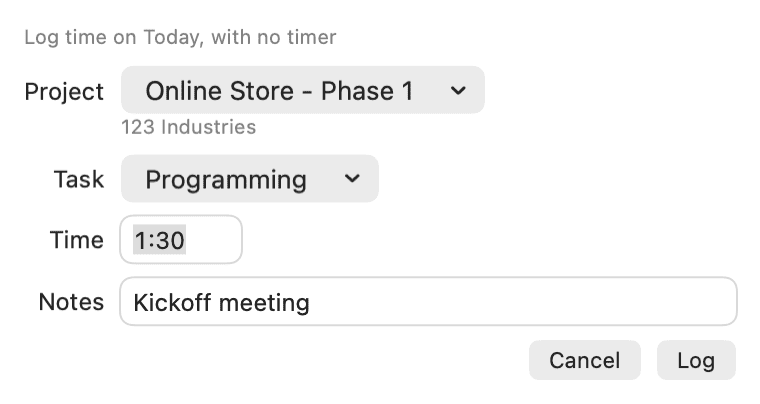
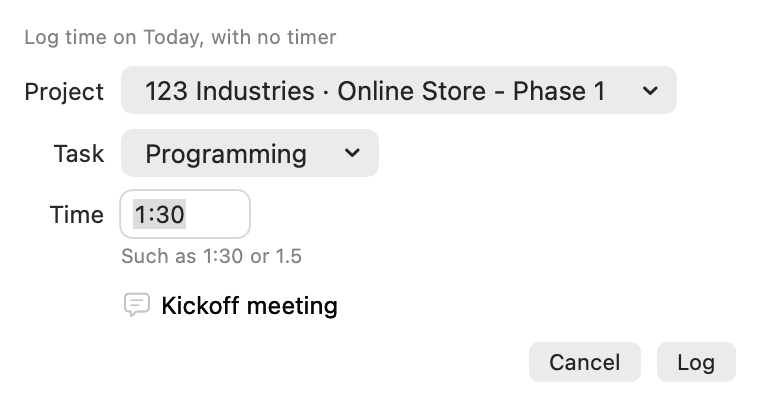
Write the Log time form as a Mac form does
The project menu shows "Client · Project", as its items do, instead of the
project with its client in a caption beneath. The time field says what it takes
in a caption beneath it rather than in a placeholder, which was cut off and read
as a time already typed. Notes are written as an entry's are, by a bubble and
"Add notes", in a borderless field that Tab still reaches from Time.

diff --git a/Apps/Mac/Sources/LogTimeForm.swift b/Apps/Mac/Sources/LogTimeForm.swift
@@ -79,23 +79,54 @@ struct LogTimeForm: View {
 
             // The rows GNOME's form has, in its order. The column style lines the
             // labels up on one edge and the controls on another, each row on its
-            // first line of text, so the client beneath the project does not pull
-            // the label down to the middle of the two lines.
+            // first line of text.
             Form {
                 LabeledContent("Project") { projectMenu }
                 LabeledContent("Task") { taskMenu }
-                TextField("Time", text: $draftHours, prompt: Text("1:30 or 1.5"))
-                    .font(.callout.monospacedDigit())
-                    .frame(width: 96)
-                    .focused($focus, equals: .hours)
-                    .accessibilityLabel("Time, such as 1:30 or 1.5")
+                // What the field takes is said beneath it, as a Mac form does, not
+                // as a placeholder: an example of a time inside a time field reads as
+                // a time already typed, and in a field this narrow it was cut off.
+                LabeledContent("Time") {
+                    VStack(alignment: .leading, spacing: 3) {
+                        TextField("Time", text: $draftHours)
+                            .labelsHidden()
+                            .font(.callout.monospacedDigit())
+                            .frame(width: 64)
+                            .focused($focus, equals: .hours)
+                            .accessibilityHint("Such as 1:30 or 1.5")
+                            .overlay {
+                                if hoursAreUnreadable {
+                                    RoundedRectangle(cornerRadius: 5).stroke(.red.opacity(0.7))
+                                }
+                            }
+                        Text("Such as 1:30 or 1.5")
+                            .font(.caption)
+                            .foregroundStyle(.secondary)
+                    }
+                }
+                // Written as an entry's notes are in the list below: "Add notes" by
+                // its bubble, with no label of its own. A field drawn that way rather
+                // than a button that opens one, so Tab still reaches it from Time.
+                LabeledContent {
+                    HStack(spacing: 4) {
+                        Image(systemName: "text.bubble")
+                            .foregroundStyle(.tertiary)
+                        TextField("Notes", text: $notes, prompt: Text("Add notes"))
+                            .labelsHidden()
+                            .textFieldStyle(.plain)
+                            .focused($focus, equals: .notes)
+                    }
+                    .padding(.vertical, 3)
+                    .padding(.horizontal, 4)
                     .overlay {
-                        if hoursAreUnreadable {
-                            RoundedRectangle(cornerRadius: 5).stroke(.red.opacity(0.7))
+                        if focus == .notes {
+                            RoundedRectangle(cornerRadius: 5).stroke(.separator)
                         }
                     }
-                TextField("Notes", text: $notes)
-                    .focused($focus, equals: .notes)
+                    .padding(.horizontal, -4)
+                } label: {
+                    EmptyView()
+                }
             }
             .formStyle(.columns)
             .textFieldStyle(.roundedBorder)
@@ -122,42 +153,32 @@ struct LogTimeForm: View {
         }
     }
 
-    /// The project's name alone, with its client beneath: "Client · Project" in a
-    /// control this narrow was cut off before the project began. The list it opens
-    /// has the room, so its items carry both.
+    /// "Client · Project", in the menu and its items alike: the form's column has
+    /// room for both, which the narrow control it replaced did not.
     private var projectMenu: some View {
-        VStack(alignment: .leading, spacing: 0) {
-            Menu {
-                ForEach(projects) { option in
-                    Button {
-                        choose(option)
-                    } label: {
-                        if option.id == project?.id {
-                            Label(option.label, systemImage: "checkmark")
-                        } else {
-                            Text(option.label)
-                        }
+        Menu {
+            ForEach(projects) { option in
+                Button {
+                    choose(option)
+                } label: {
+                    if option.id == project?.id {
+                        Label(option.label, systemImage: "checkmark")
+                    } else {
+                        Text(option.label)
                     }
                 }
-            } label: {
-                Text(project?.project.name ?? (projects.isEmpty ? "No projects" : "Choose a project"))
-                    .lineLimit(1)
             }
-            .menuStyle(.button)
-            // Its own height but not its own width, so a long name is cut short
-            // rather than pushing the form past the panel's edge.
-            .fixedSize(horizontal: false, vertical: true)
-            .disabled(projects.isEmpty)
-            .accessibilityLabel("Project")
-            .accessibilityValue(project?.label ?? "")
-
-            if let client = project?.client?.name, !client.isEmpty {
-                Text(client)
-                    .font(.caption)
-                    .foregroundStyle(.secondary)
-                    .lineLimit(1)
-            }
+        } label: {
+            Text(project?.label ?? (projects.isEmpty ? "No projects" : "Choose a project"))
+                .lineLimit(1)
         }
+        .menuStyle(.button)
+        // Its own height but not its own width, so a long name is cut short
+        // rather than pushing the form past the panel's edge.
+        .fixedSize(horizontal: false, vertical: true)
+        .disabled(projects.isEmpty)
+        .accessibilityLabel("Project")
+        .accessibilityValue(project?.label ?? "")
     }
 
     /// A project with one task has nothing to choose, so it reads as a label, as it
